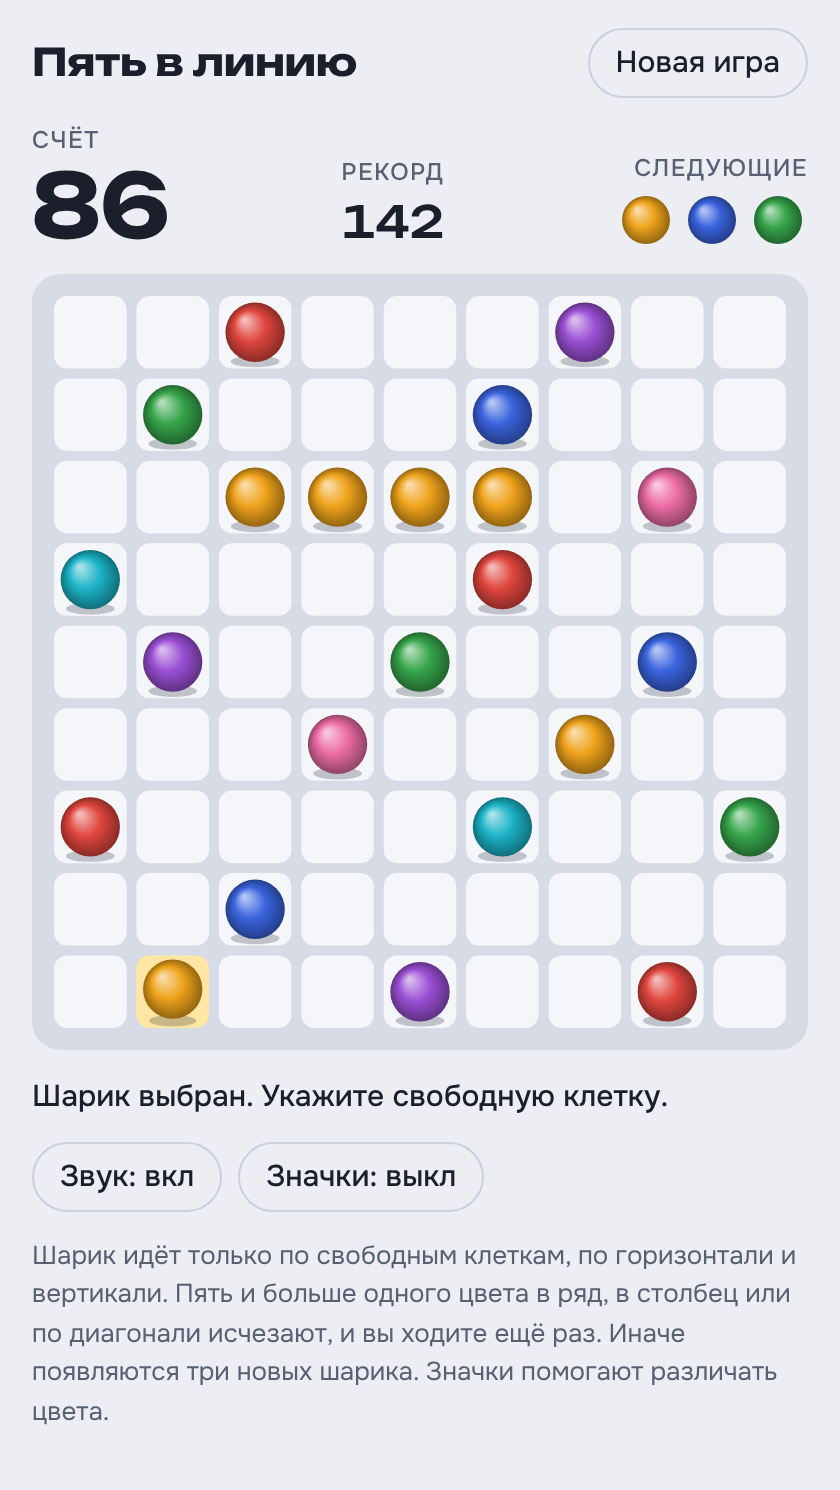
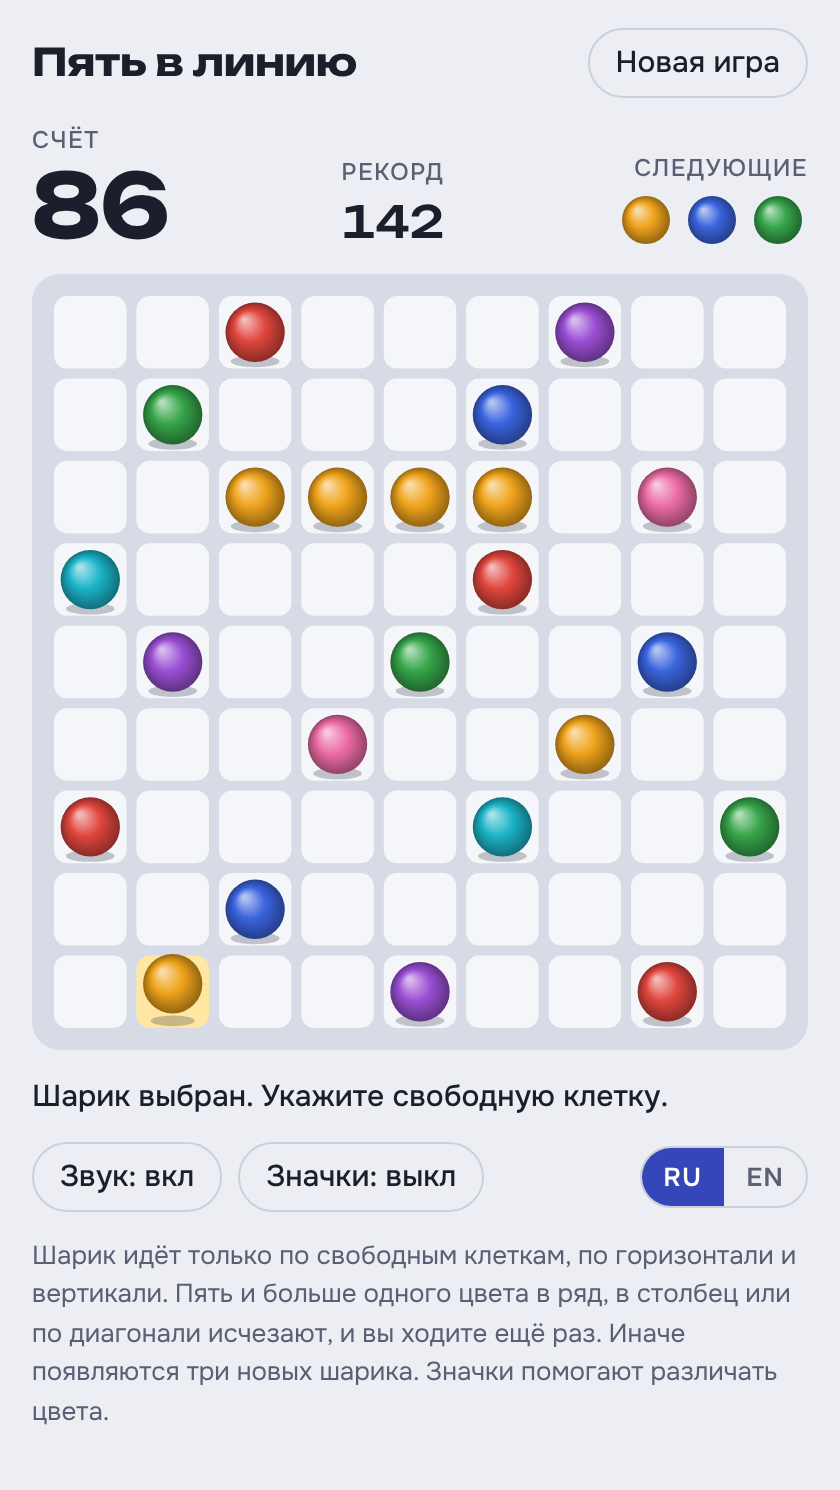
Make the README English, with a Russian version alongside
README.md is now English only, so the repository page reads in English
by default. The Russian text moves to README.ru.md, and each file links
to the other.

The screenshots were retaken to match: the light one shows the Russian
interface and the dark one the English, both with the RU/EN switch.

Claude-Session: https://claude.ai/code/session_011m9jhDwSHMzssbNRw4qgWG

Changed region(s): [[0.7429, 0.7718, 0.8667, 0.8336], [0.1548, 0.6174, 0.2476, 0.7101], [0.8976, 0.7718, 0.9286, 0.8027]]

diff --git a/README.md b/README.md
@@ -1,30 +1,30 @@
-# Пять в линию
+# Five in a Line
 
-Браузерная головоломка по правилам «Линий» (Color Lines, 1992). Двигайте шарики по полю 9×9 и собирайте пять одного цвета в ряд, пока поле не заполнилось.
+[Русская версия](README.ru.md)
 
-*A browser puzzle that follows the rules of Color Lines (1992): move marbles on a 9×9 board and line up five of one colour before the board fills.*
+A browser puzzle that follows the rules of Color Lines (1992). Move marbles on a 9 × 9 board and line up five of one colour before the board fills.
 
-**[Играть в браузере](https://posoxai.github.io/FiveInLineGame/)**
+**[Play in the browser](https://posoxai.github.io/FiveInLineGame/)**
 
 <p>
-  <img src="screenshots/day.png" width="300" alt="Пять в линию в светлой теме: четыре жёлтых шарика в ряд, пятый выбран">
-  <img src="screenshots/night.png" width="300" alt="Та же позиция в тёмной теме, на шариках включены значки">
+  <img src="screenshots/day.png" width="300" alt="Five in a Line in the light theme with the Russian interface: four yellow marbles in a row and a fifth one picked">
+  <img src="screenshots/night.png" width="300" alt="The same position in the dark theme with the English interface and marks switched on">
 </p>
 
-Слева светлая тема, справа тёмная с включёнными значками.
+Left: the light theme with the Russian interface. Right: the dark theme with the English one and marks switched on.
 
-## Правила
+## Rules
 
-- Поле 9×9, семь цветов. Партия начинается с пяти шариков.
-- Выберите шарик, затем свободную клетку. Шарик дойдёт, только если к клетке есть проход по свободным клеткам, по горизонтали и вертикали.
-- Пять и больше шариков одного цвета в ряд, в столбец или по диагонали исчезают, и вы ходите ещё раз.
-- Если линии нет, на поле появляются три новых шарика. Их цвета видны заранее в блоке «Следующие».
-- Новые шарики тоже могут собрать линию. Она исчезает, и очки за неё начисляются.
-- Игра заканчивается, когда поле заполнено.
+- The board is 9 × 9 and there are seven colours. A game starts with five marbles.
+- Pick a marble, then an empty cell. The marble gets there only if a path of empty cells leads to it, moving horizontally and vertically.
+- Five or more marbles of one colour in a row, a column or a diagonal disappear, and you move again.
+- If no line is made, three new marbles arrive. Their colours are shown in advance under Next.
+- New marbles can complete a line too. It disappears and scores as usual.
+- The game ends when the board is full.
 
-## Очки
+## Scoring
 
-| Шариков в линии | Очки |
+| Marbles in the line | Points |
 | --- | --- |
 | 5 | 10 |
 | 6 | 12 |
@@ -32,42 +32,40 @@
 | 8 | 28 |
 | 9 | 42 |
 
-За каждый шарик сверх девяти добавляется ещё 16 очков. Такое возможно, когда один ход закрывает две пересекающиеся линии.
+Each marble beyond nine adds 16 more points. That can happen when one move completes two crossing lines.
 
-Таблица очков своя. В описании оригинала сказано только, что длинные линии дают заметно больше очков.
+The scoring table is this version's own. Descriptions of the original say only that longer lines score considerably more.
 
-## Управление
+## Controls
 
-- Мышь или палец: нажмите на шарик, затем на свободную клетку.
-- Клавиатура: стрелки двигают курсор, Enter или пробел выбирает шарик и клетку.
-- «Значки» рисуют на шариках фигуры, чтобы цвета различались не только оттенком.
-- «Новая игра» спрашивает подтверждение, если в текущей партии уже есть очки.
+- Mouse or touch: tap a marble, then an empty cell.
+- Keyboard: arrow keys move the cursor, Enter or Space picks a marble and a cell.
+- Marks draws a shape on every marble, so colours can be told apart by more than hue.
+- New game asks for confirmation when the current game already has points.
 
-Незаконченная партия, рекорд и настройки хранятся в браузере игрока.
+An unfinished game, the best score and the settings are kept in the player's browser.
 
-## Язык
+## Language
 
-Интерфейс на русском и английском. Русский включается сам, если он есть в списке языков браузера, иначе игра открывается на английском. Переключатель RU/EN запоминает выбор.
+The interface is in English and Russian. It opens in Russian when Russian is among the browser's languages and in English otherwise. The RU/EN switch remembers your choice.
 
-*The interface is in Russian and English. It opens in Russian when Russian is among the browser's languages and in English otherwise; the RU/EN switch remembers your choice.*
+## How to run
 
-## Как запустить
+The whole game is one file, `index.html`. There is no build step and there are no dependencies.
 
-Вся игра лежит в одном файле `index.html`. Сборка и зависимости не нужны.
+- Locally: open `index.html` in a browser.
+- Online: the game is published with GitHub Pages at https://posoxai.github.io/FiveInLineGame/. Every commit to `main` updates it automatically.
 
-- Локально: откройте `index.html` в браузере.
-- По ссылке: игра опубликована через GitHub Pages по адресу https://posoxai.github.io/FiveInLineGame/. Каждый коммит в `main` обновляет её автоматически.
+Fonts load from Google Fonts. Without a network the game falls back to system fonts.
 
-Шрифты загружаются с Google Fonts. Без сети игра работает на системных шрифтах.
+## Credits
 
-## Авторство
+The game was written by Claude, the AI assistant made by Anthropic: the logic, the canvas graphics, the sound and the page design.
 
-Игру написал Claude, ИИ-ассистент компании Anthropic: логику, графику на canvas, звук и оформление страницы.
+The rules belong to Color Lines, made in 1992 by Oleg Demin, Gennady Denisov and Igor Ivkin and published by Gamos. The graphics, the name and the design of this version are its own; only the rules come from the original.
 
-Правила принадлежат игре Color Lines, которую в 1992 году сделали Олег Дёмин, Геннадий Денисов и Игорь Ивкин и выпустила компания Gamos. Графика, название и оформление этой версии свои, из оригинала взяты только правила.
+The idea of making a browser version came from posoxAI.
 
-Идея сделать браузерную версию принадлежит posoxAI.
+## License
 
-## Лицензия
-
-MIT. Полный текст в файле [LICENSE](LICENSE).
+MIT. The full text is in [LICENSE](LICENSE).

diff --git a/README.ru.md b/README.ru.md
@@ -1,0 +1,71 @@
+# Пять в линию
+
+[English version](README.md)
+
+Браузерная головоломка по правилам «Линий» (Color Lines, 1992). Двигайте шарики по полю 9×9 и собирайте пять одного цвета в ряд, пока поле не заполнилось.
+
+**[Играть в браузере](https://posoxai.github.io/FiveInLineGame/)**
+
+<p>
+  <img src="screenshots/day.png" width="300" alt="Пять в линию в светлой теме: четыре жёлтых шарика в ряд, пятый выбран">
+  <img src="screenshots/night.png" width="300" alt="Та же позиция в тёмной теме с английским интерфейсом, на шариках включены значки">
+</p>
+
+Слева светлая тема с русским интерфейсом, справа тёмная с английским и включёнными значками.
+
+## Правила
+
+- Поле 9×9, семь цветов. Партия начинается с пяти шариков.
+- Выберите шарик, затем свободную клетку. Шарик дойдёт, только если к клетке есть проход по свободным клеткам, по горизонтали и вертикали.
+- Пять и больше шариков одного цвета в ряд, в столбец или по диагонали исчезают, и вы ходите ещё раз.
+- Если линии нет, на поле появляются три новых шарика. Их цвета видны заранее в блоке «Следующие».
+- Новые шарики тоже могут собрать линию. Она исчезает, и очки за неё начисляются.
+- Игра заканчивается, когда поле заполнено.
+
+## Очки
+
+| Шариков в линии | Очки |
+| --- | --- |
+| 5 | 10 |
+| 6 | 12 |
+| 7 | 18 |
+| 8 | 28 |
+| 9 | 42 |
+
+За каждый шарик сверх девяти добавляется ещё 16 очков. Такое возможно, когда один ход закрывает две пересекающиеся линии.
+
+Таблица очков своя. В описании оригинала сказано только, что длинные линии дают заметно больше очков.
+
+## Управление
+
+- Мышь или палец: нажмите на шарик, затем на свободную клетку.
+- Клавиатура: стрелки двигают курсор, Enter или пробел выбирает шарик и клетку.
+- «Значки» рисуют на шариках фигуры, чтобы цвета различались не только оттенком.
+- «Новая игра» спрашивает подтверждение, если в текущей партии уже есть очки.
+
+Незаконченная партия, рекорд и настройки хранятся в браузере игрока.
+
+## Язык
+
+Интерфейс на русском и английском. Русский включается сам, если он есть в списке языков браузера, иначе игра открывается на английском. Переключатель RU/EN запоминает выбор.
+
+## Как запустить
+
+Вся игра лежит в одном файле `index.html`. Сборка и зависимости не нужны.
+
+- Локально: откройте `index.html` в браузере.
+- По ссылке: игра опубликована через GitHub Pages по адресу https://posoxai.github.io/FiveInLineGame/. Каждый коммит в `main` обновляет её автоматически.
+
+Шрифты загружаются с Google Fonts. Без сети игра работает на системных шрифтах.
+
+## Авторство
+
+Игру написал Claude, ИИ-ассистент компании Anthropic: логику, графику на canvas, звук и оформление страницы.
+
+Правила принадлежат игре Color Lines, которую в 1992 году сделали Олег Дёмин, Геннадий Денисов и Игорь Ивкин и выпустила компания Gamos. Графика, название и оформление этой версии свои, из оригинала взяты только правила.
+
+Идея сделать браузерную версию принадлежит posoxAI.
+
+## Лицензия
+
+MIT. Полный текст в файле [LICENSE](LICENSE).
